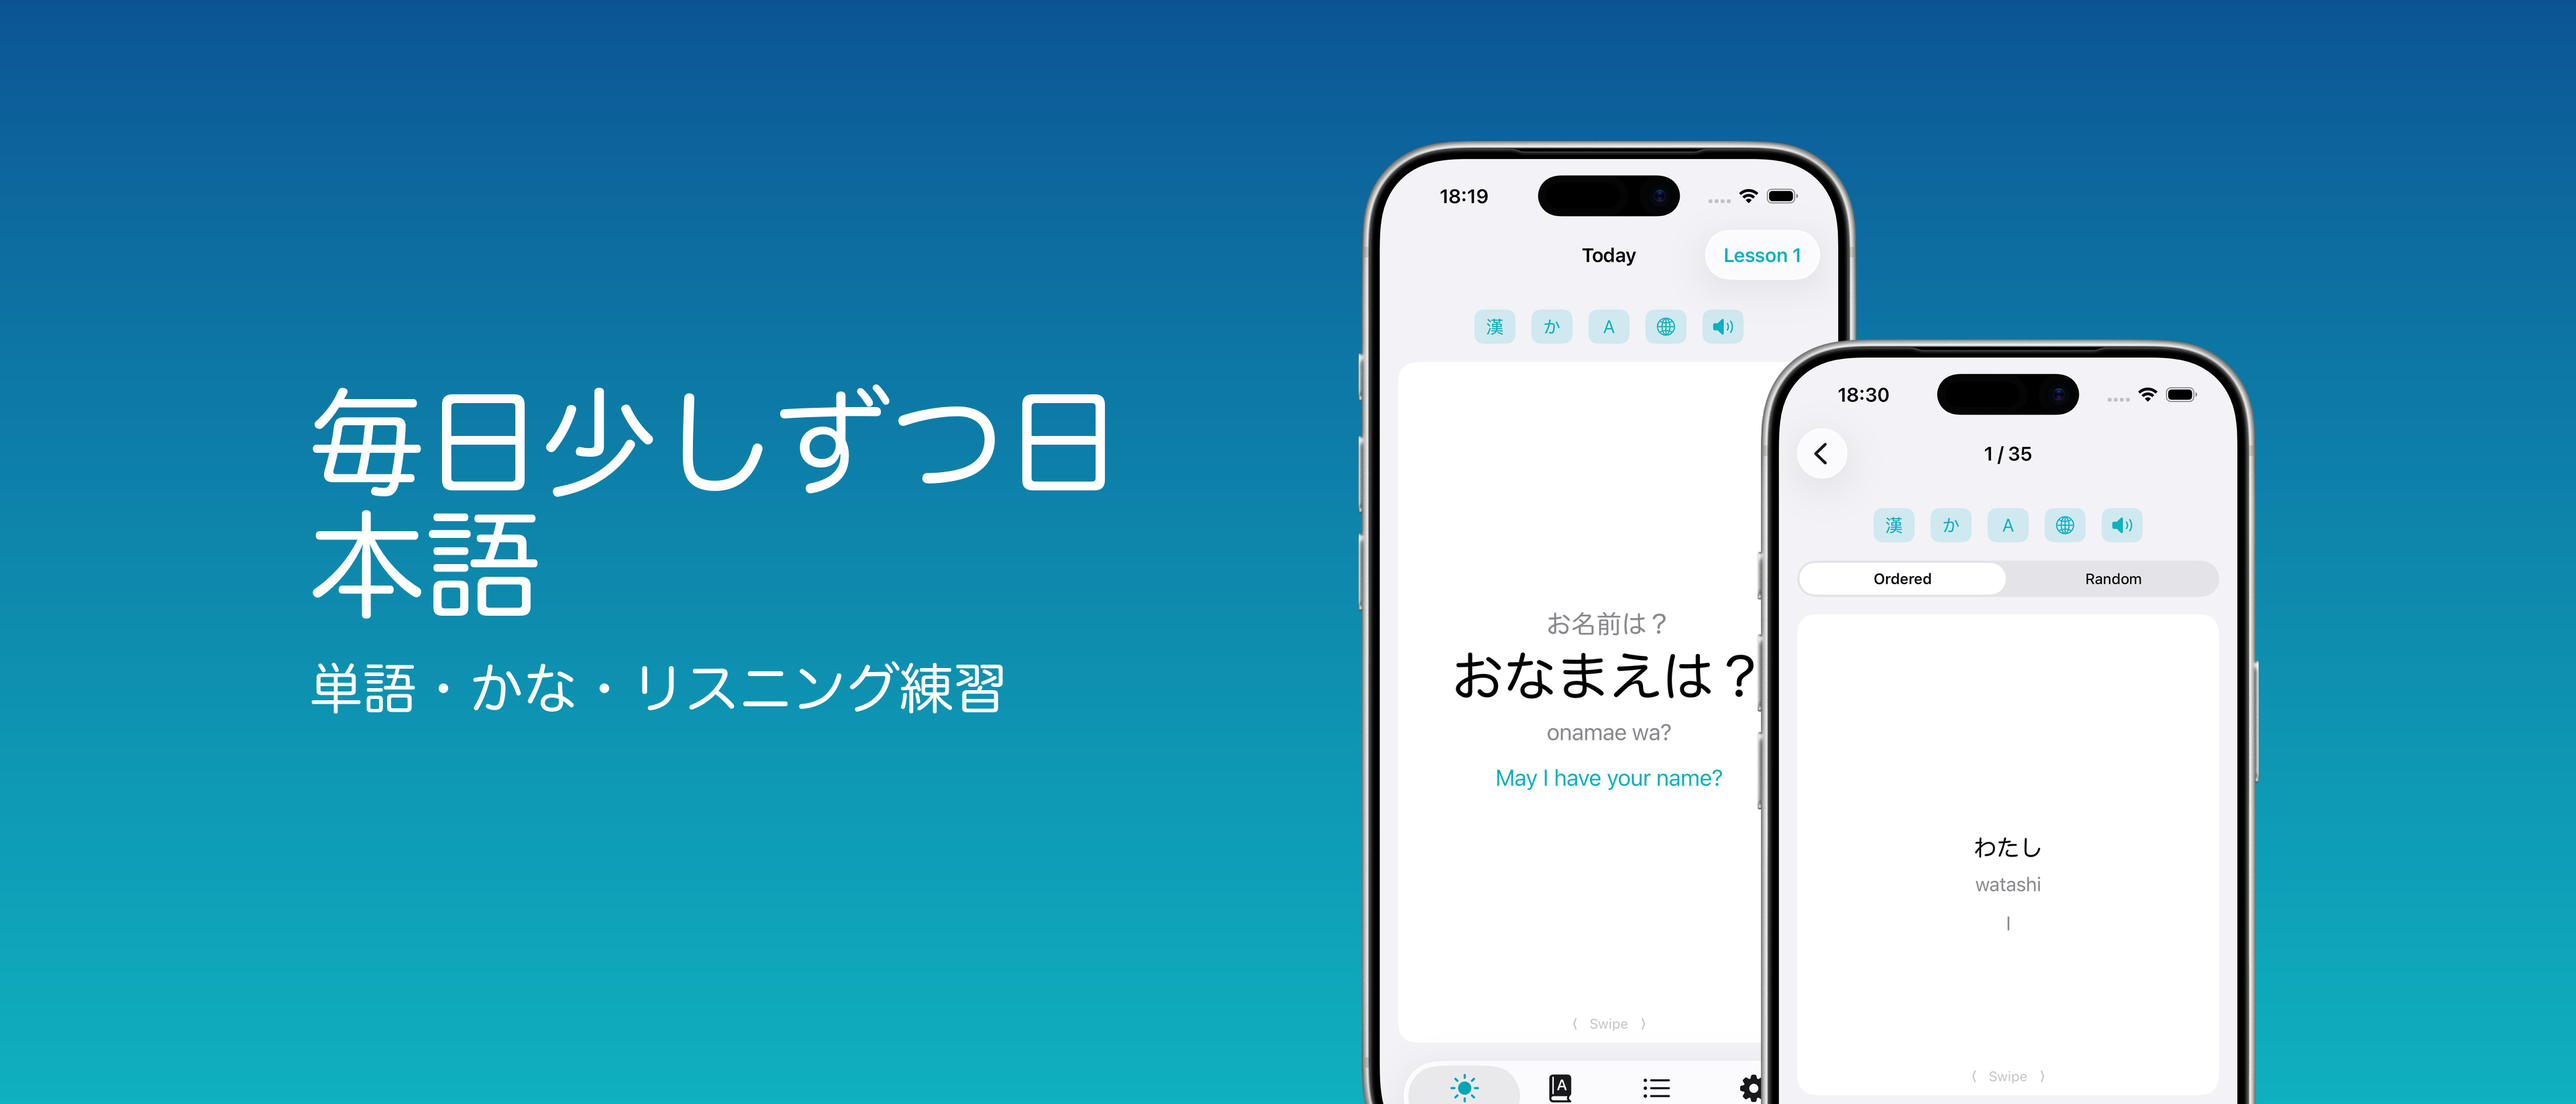
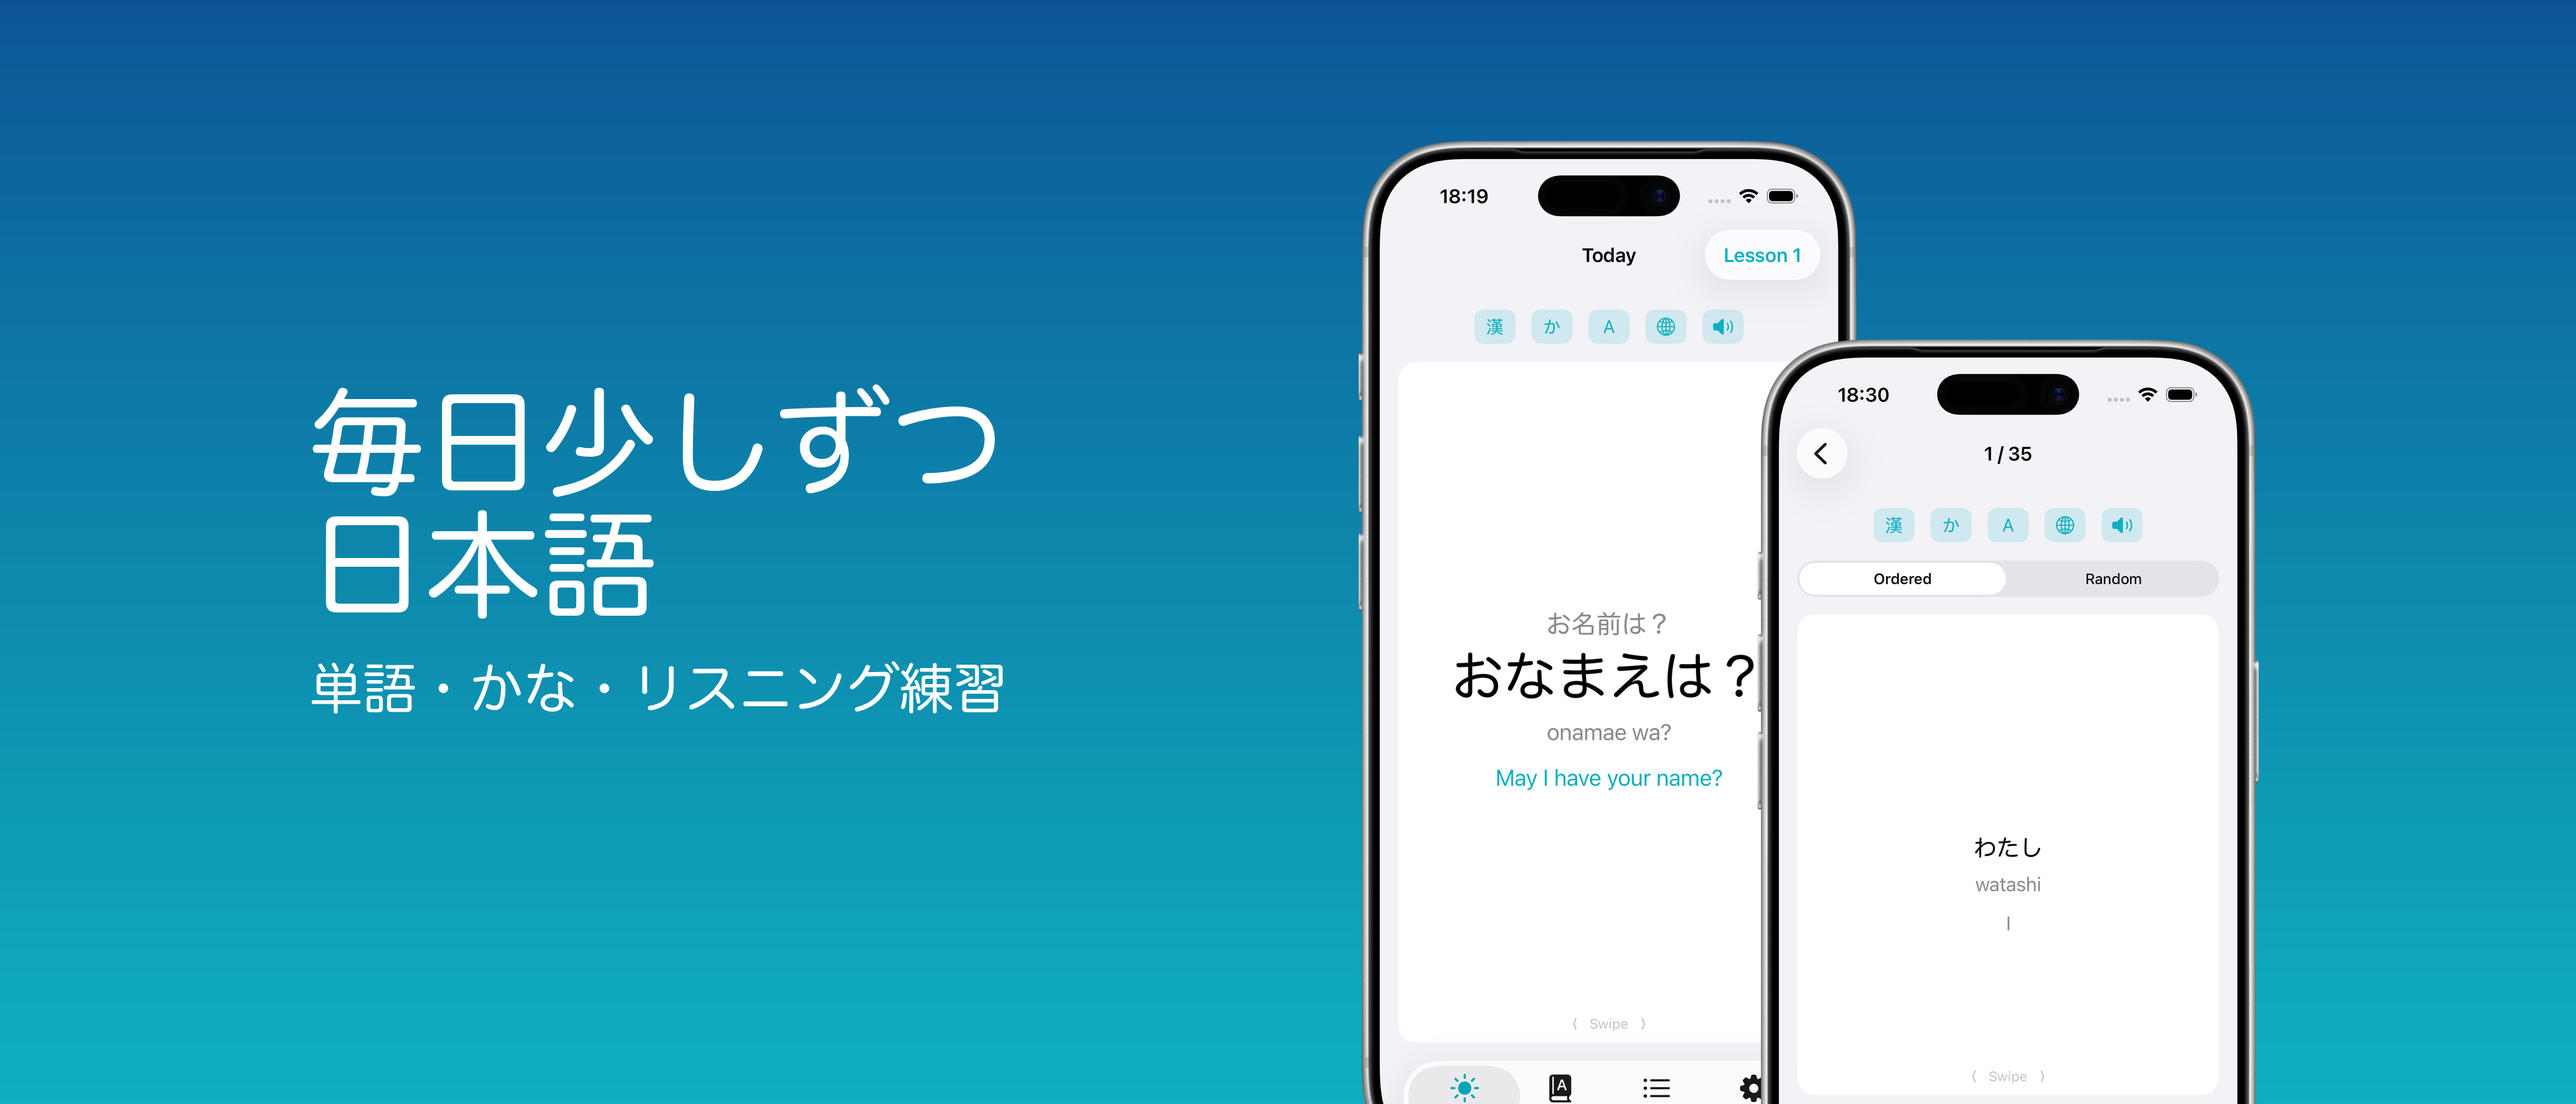
fix: never split a word when wrapping asset headlines

Changed region(s): [[0.125, 0.4648, 0.25, 0.5577], [0.375, 0.3408, 0.4375, 0.4648]]

diff --git a/fastlane/generate_framed_screenshots.py b/fastlane/generate_framed_screenshots.py
@@ -461,8 +461,8 @@ ASSET_COPY = {
               "search": ("Apprends le vocabulaire japonais", "Pratique, cartes mémo, association et plus")},
     "id": {"header": ("Bahasa Jepang, sedikit tiap hari", "Kosakata, kana, dan latihan menyimak"),
            "search": ("Belajar kosakata Jepang", "Latihan, kartu kilas, pasangkan, dan lainnya")},
-    "ja": {"header": ("毎日少しずつ日本語", "単語・かな・リスニング練習"),
-           "search": ("日本語の単語を学ぶ", "練習・フラッシュカード・マッチほか")},
+    "ja": {"header": ("毎日少しずつ\n日本語", "単語・かな・リスニング練習"),
+           "search": ("日本語の\n単語を学ぶ", "練習・フラッシュカード・マッチほか")},
     "it": {"header": ("Giapponese, un po' ogni giorno", "Vocabolario, kana e ascolto"),
            "search": ("Impara le parole giapponesi", "Pratica, flashcard, abbina e altro")},
     "ko": {"header": ("매일 조금씩 일본어", "단어, 가나, 듣기 연습"),
@@ -487,6 +487,17 @@ ASSET_CANVASES = {k: v["canvas"] for k, v in CREATIVE_ASSETS.items()}
 # (the simulator cannot unfold) and live in screenshot_raw/duo/<key>.png, the same keys
 # as LOCALES. Without one the key is skipped, like iPad.
 DUO = dict(canvas=(2853, 2007), raw_dir="duo")
+# Duo reuses LOCALES' copy. Unspaced scripts are never auto-broken (see asset_lines), so a
+# title too wide for the Duo column gets its phrase break here rather than in LOCALES,
+# whose strings the portrait screenshots draw without "\n" handling.
+DUO_BREAKS = {
+    ("ja", "00-lessons"): "みんなの\n日本語50課",
+    ("zh-Hant", "00-lessons"): "50 課\n大家的日本語課程",
+}
+
+
+def duo_title(locale, key, title):
+    return DUO_BREAKS.get((LOCALE_ALIASES.get(locale, locale), key), title)
 
 LOCALE_ALIASES = {"zh-Hans": "zh-Hant"}
 
@@ -731,8 +742,24 @@ def asset_out_dir(locale):
     return os.path.join(os.path.dirname(OUT_DIR), "creative_assets", locale)
 
 
+def asset_lines(draw, text, font, max_width, wrap):
+    """Lines for the creative assets and the Duo layout, which never split a word.
+
+    Spaced scripts break at spaces only (an over-wide single word overflows and fails
+    `--check`). Unspaced scripts (wrap="char": ja, zh) are NOT auto-broken at all: a
+    character-level break puts half of 日本語 on each line. Their copy carries explicit
+    "\n" phrase breaks, and each phrase must fit on one line.
+    """
+    if wrap == "char":
+        return text.split("\n")
+    lines = []
+    for phrase in text.split("\n"):
+        lines += wrap_lines(draw, phrase, font, max_width, "word")
+    return lines
+
+
 def draw_left_text(draw, x, top_y, text, font, fill, max_width, line_gap, wrap):
-    lines = wrap_lines(draw, text, font, max_width, wrap)
+    lines = asset_lines(draw, text, font, max_width, wrap)
     ascent, descent = font.getmetrics()
     line_h = int((ascent + descent) * line_gap)
     for i, ln in enumerate(lines):
@@ -741,8 +768,8 @@ def draw_left_text(draw, x, top_y, text, font, fill, max_width, line_gap, wrap):
 
 
 def text_block_height(draw, title, sub, tfont, sfont, max_w, wrap, gap):
-    th = sum(int(sum(tfont.getmetrics()) * 1.05) for _ in wrap_lines(draw, title, tfont, max_w, wrap))
-    sh = sum(int(sum(sfont.getmetrics()) * 1.1) for _ in wrap_lines(draw, sub, sfont, max_w, wrap))
+    th = sum(int(sum(tfont.getmetrics()) * 1.05) for _ in asset_lines(draw, title, tfont, max_w, wrap))
+    sh = sum(int(sum(sfont.getmetrics()) * 1.1) for _ in asset_lines(draw, sub, sfont, max_w, wrap))
     return th + gap + sh
 
 
@@ -793,6 +820,7 @@ def render_duo(locale, key):
         return None
     W, H = DUO["canvas"]
     title, subtitle = LOCALES[LOCALE_ALIASES.get(locale, locale)][key]
+    title = duo_title(locale, key, title)
     typo = typography(locale)
     bg = make_gradient(W, H, *GRADIENTS[APP]).convert("RGBA")
     draw = ImageDraw.Draw(bg)
@@ -915,12 +943,14 @@ def check(locale_filter=None):
                     if gaps:
                         ok = False
                         print(f"  FAIL {locale} {kind} {role}: no glyph for {gaps}")
-                    for line in wrap_lines(probe, text, font, col, typo["wrap"]):
+                    for line in asset_lines(probe, text, font, col, typo["wrap"]):
                         w = probe.textlength(line, font=font)
                         if w > col:
                             ok = False
-                            print(f"  FAIL {locale} {kind} {role}: line {w:.0f}px > {col:.0f}px: {line!r}")
-                    n = len(wrap_lines(probe, text, font, col, typo["wrap"]))
+                            print(f"  FAIL {locale} {kind} {role}: line {w:.0f}px > {col:.0f}px: {line!r}"
+                                  + (" (unspaced script: add an explicit \\n phrase break)"
+                                     if typo["wrap"] == "char" else ""))
+                    n = len(asset_lines(probe, text, font, col, typo["wrap"]))
                     if role == "title" and n > 3:
                         ok = False
                         print(f"  FAIL {locale} {kind} title wraps to {n} lines")
@@ -937,11 +967,11 @@ def check(locale_filter=None):
                 for key, strings in copy.items():
                     if key == "01-watch-today":
                         continue
-                    text = strings[idx]
+                    text = duo_title(locale, key, strings[0]) if idx == 0 else strings[idx]
                     if missing_glyphs(font, text):
                         ok = False
                         print(f"  FAIL duo {locale} {key} {role}: missing glyph")
-                    for line in wrap_lines(probe, text, font, col, typo["wrap"]):
+                    for line in asset_lines(probe, text, font, col, typo["wrap"]):
                         if probe.textlength(line, font=font) > col:
                             ok = False
                             print(f"  FAIL duo {locale} {key} {role}: overflow {line!r}")
